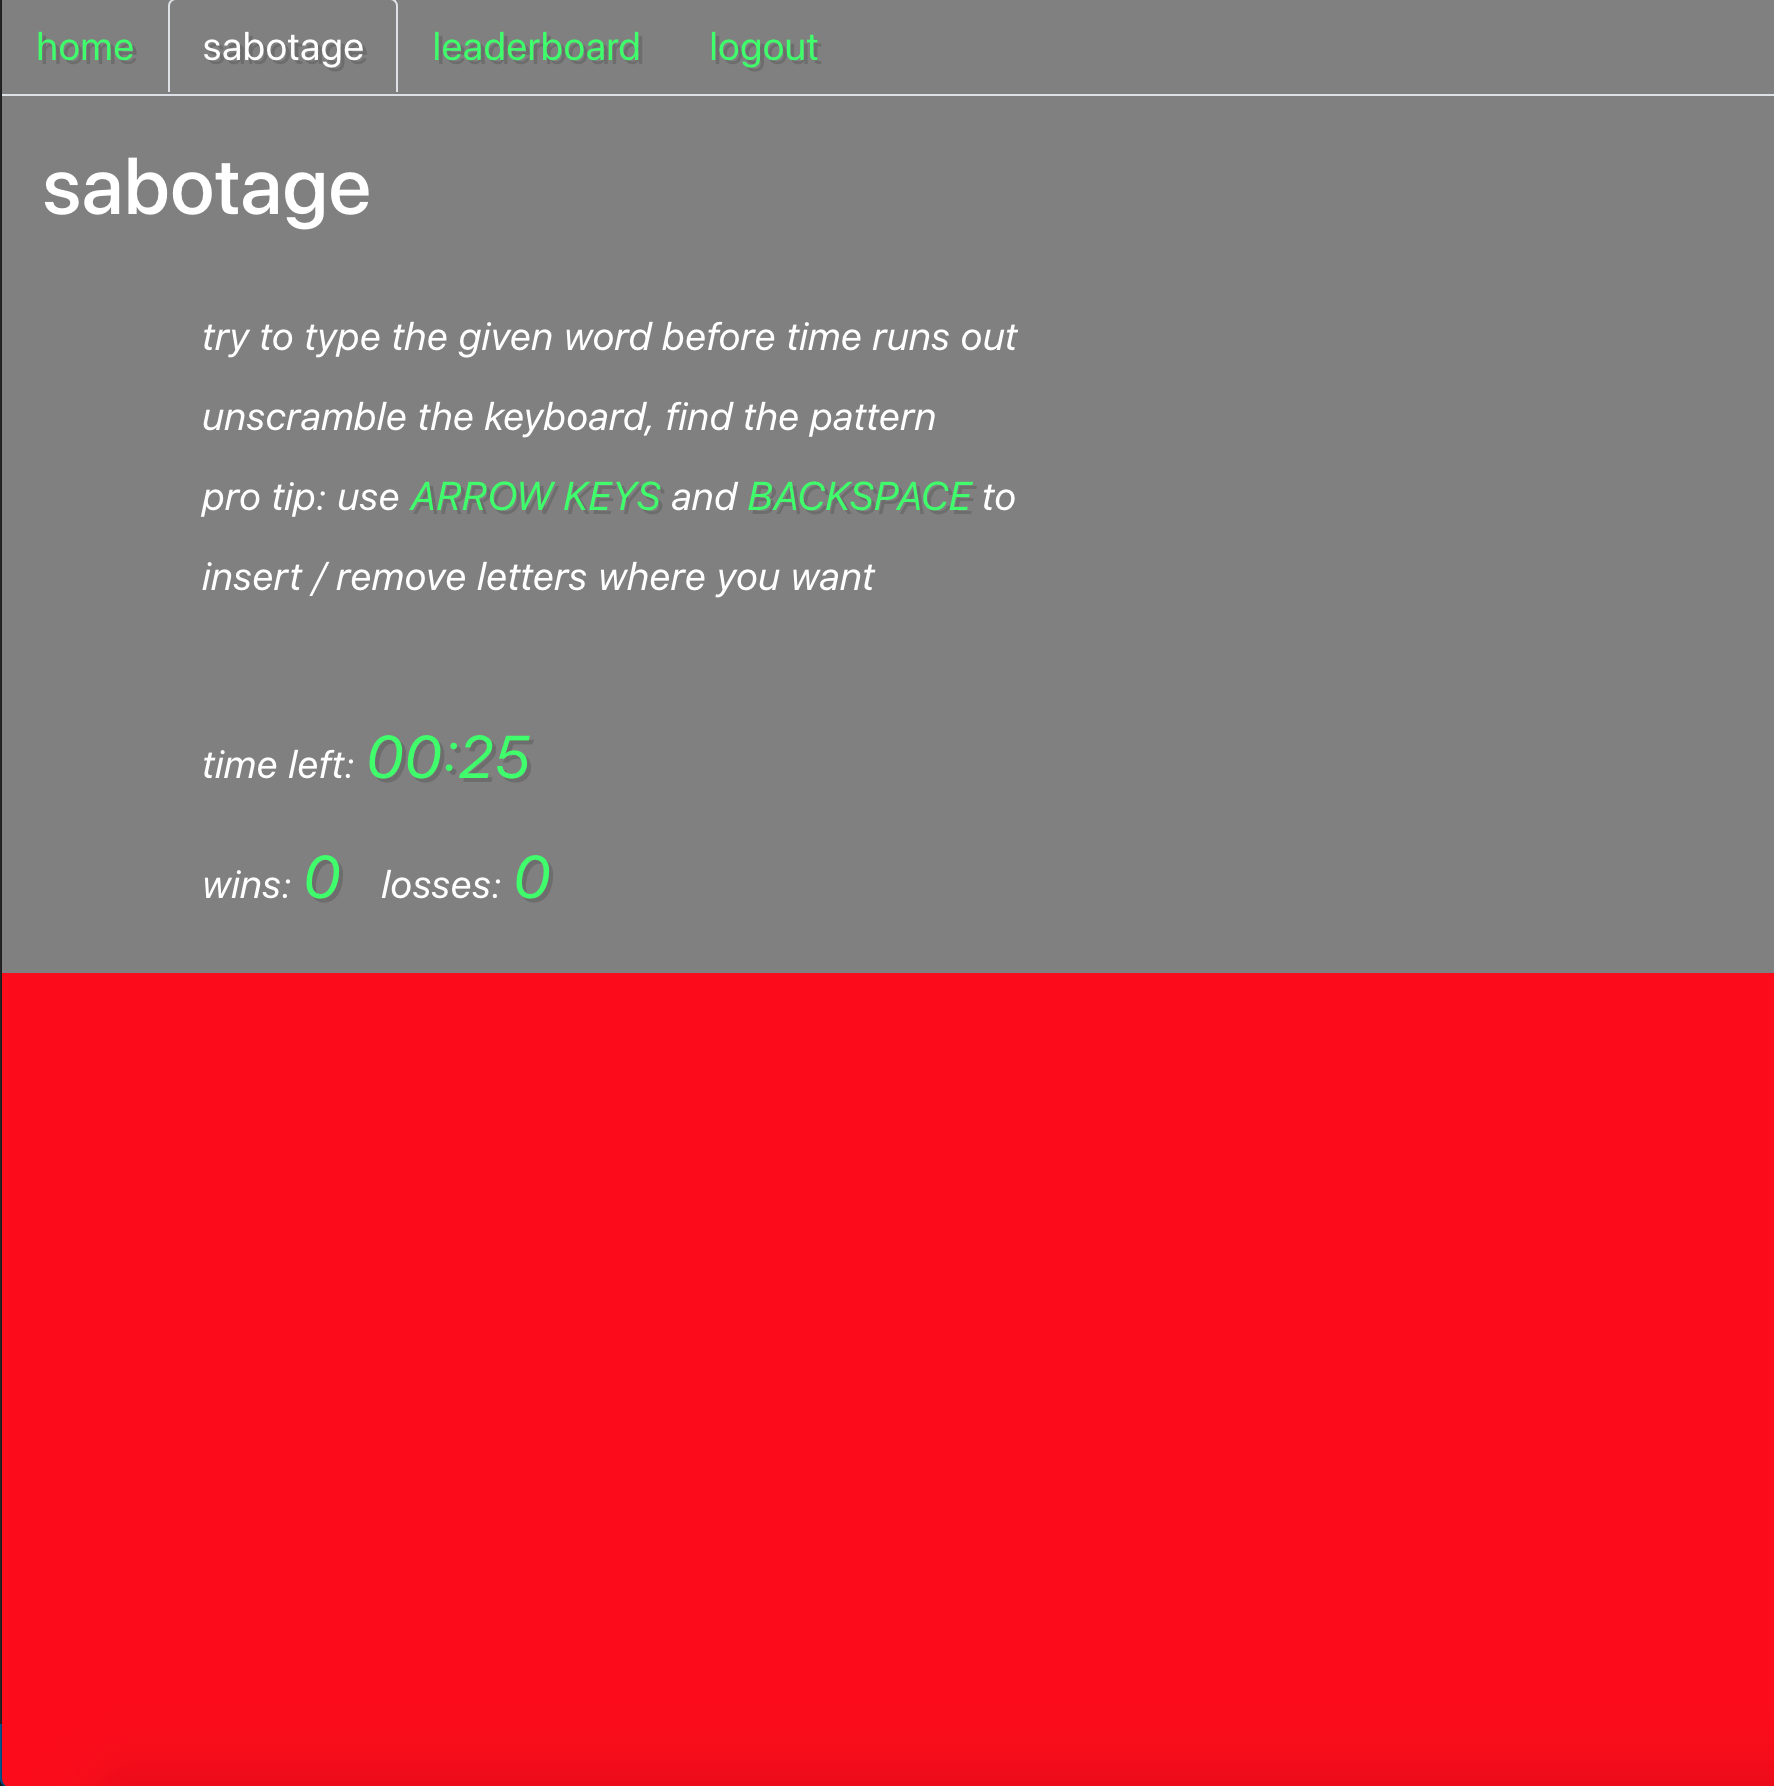
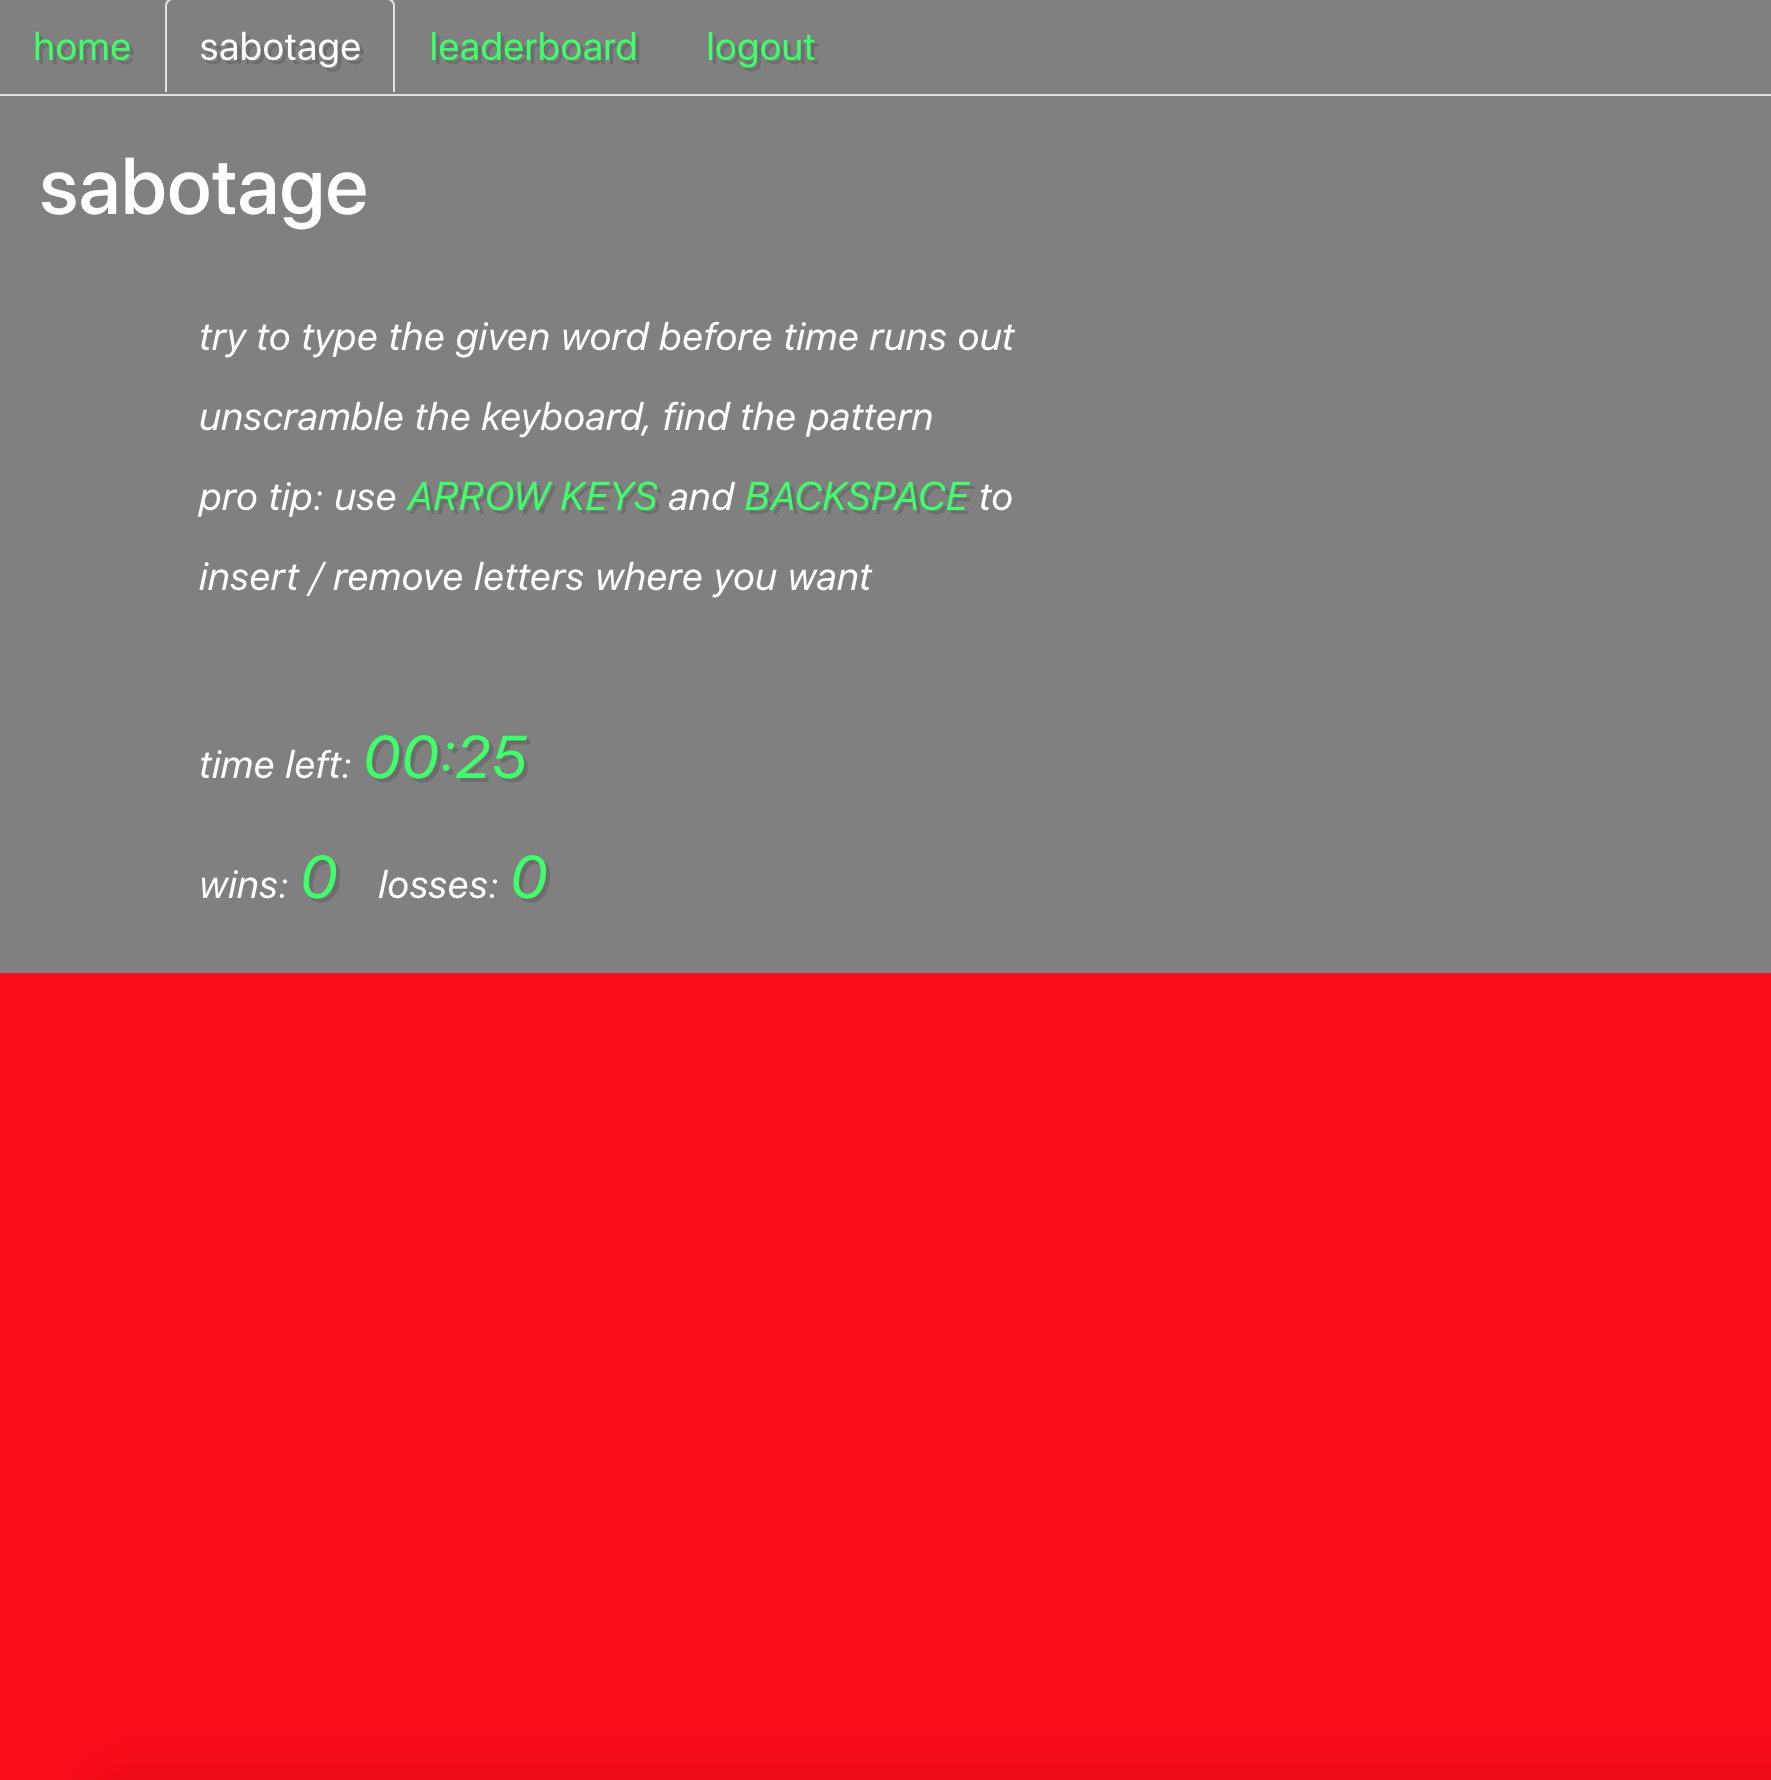
added img bg & link

diff --git a/src/pages/Focus/Local.js b/src/pages/Focus/Local.js
@@ -10,7 +10,9 @@ function Local() {
              <div className="row center-select">
                 <div className="col-md-6">
                     <div className="center app app-img">
-                        <img src="./images/keep-it-local.png" id="app-cover"/>
+                        <a href="https://keep-it-local.herokuapp.com/" target="_blank" className="app-link">
+                            <img src="./images/keep-it-local.png" id="app-cover"/>
+                        </a>
                     </div>
                 </div>
                 <div className="col-md-6">
@@ -37,7 +39,7 @@ function Local() {
                         <p>Login/sign up to start browsing local, DIY events, message other users, or post your own events.</p>
                         <p>Results are limited to a 30 miles raidus of your current location.</p> 
                         <p>To preserve the culture and trust of the network, you must have a referral code to join. Existing users can generate a new referral code every 3 days.</p>
-                        <br/><br/>
+                        <br/>
                         
                         <div className="test-user">
                             <p>>> test user login info:</p>
@@ -46,7 +48,7 @@ function Local() {
                         </div>
                         
                         <a href="https://keep-it-local.herokuapp.com/" target="_blank" className="app-link">> click here try out the app</a>
-                        <br/><br/>
+                        <br/>
                     </div>
                 </div>
             </div>

diff --git a/src/pages/Focus/Sabotage.js b/src/pages/Focus/Sabotage.js
@@ -10,7 +10,9 @@ function Sabotage() {
              <div className="row center-select">
                 <div className="col-md-6">
                     <div className="center app app-img">
-                        <img src="./images/sabotage.png" id="app-cover"/>
+                        <a href="https://sabotage-game.herokuapp.com/" target="_blank" className="app-link">                        
+                            <img src="./images/sabotage.png" id="app-cover"/>
+                        </a>
                     </div>
                 </div>
                 <div className="col-md-6">
@@ -38,7 +40,7 @@ function Sabotage() {
                         <p>Spin the bonus wheel for a surprise.</p>
                         <p>Compare your scores with friends on the leaderboard in real-time.</p><br/>
                         
-                        <br/><br/>
+                        <br/>
                         <a href="https://sabotage-game.herokuapp.com/" target="_blank" className="app-link">> click here try out the app</a>
                          
                     </div>

diff --git a/src/pages/Focus/Moodi.js b/src/pages/Focus/Moodi.js
@@ -10,7 +10,9 @@ function Moodi() {
              <div class="row center-select">
                 <div class="col-md-6">
                     <div class="center app app-img">
-                        <img src="./images/moodi.png" id="app-cover"/>
+                        <a href="https://10ssless.github.io/Project-Moodi/" target="_blank" className="app-link">
+                            <img src="./images/moodi.png" id="app-cover" />
+                        </a>
                     </div>
                 </div>
                 <div class="col-md-6">
@@ -36,7 +38,7 @@ function Moodi() {
                             entirely different space.</p><br/>
                         <p> Explore the possibilities and find easter eggs as you listen and relax.</p><br/>
                         
-                        <br/><br/><br/>
+                        <br/><br/>
                         <a href="https://10ssless.github.io/Project-Moodi/" target="_blank" className="app-link">> click here to try out the app</a>
                     </div>
                 </div>

diff --git a/src/pages/Focus/Focus.css b/src/pages/Focus/Focus.css
@@ -11,7 +11,7 @@
 .side {
     position: absolute;
     right: 3.4%;
-    top: 38%;
+    top: 38.6%;
     width: 100%;
     height: 40%;
     background: rgba(240, 128, 128, 0.392);
@@ -19,7 +19,7 @@
     font-size: 18px;
     overflow: scroll;
     white-space: normal;
-    padding: 15px;
+    padding: 30px;
     /* margin-left:30px; */
     /* overflow: hidden; */
     overflow: -moz-scrollbars-none;
@@ -36,6 +36,8 @@
 .app-img {
     margin: 30px;
     padding: 25px;
+    padding-left:30px;
+    background: linear-gradient(to top, rgba(122, 130, 164, 0.4), rgb(200, 202, 166, 0.4));
     /* background-image: url("../images/habitat.jpg");
     background-repeat: none;
     background-size: cover; */
@@ -97,7 +99,7 @@ button:hover {
     font-size: 17px;
     color: rgb(255, 255, 255);
     margin-top: -40px;
-    margin-right: 30%;
+    margin-right: 17%;
     font-style: italic;
     color:rgb(220, 220, 220);
     /* position: absolute;

diff --git a/src/pages/Home/Home.css b/src/pages/Home/Home.css
@@ -16,7 +16,7 @@
     transform: perspective(300px) rotateX(34deg);
     /* text-shadow: 1px 4px 0px rgb(133, 196, 159, 0.3); */
     transition-property: text-shadow,color;
-    transition-duration: 1.5s;
+    transition-duration: 1.5s;  
 }
 
 .zm {
